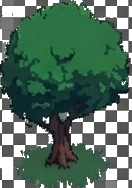
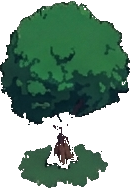
Fix stump transparency and double in-game stump size.
Remove dark checkerboard from stumps_log_01.png and add fix_sprite_transparency.py helper.

Changed region(s): [[0.0, 0.0, 1.0, 1.0], [0.0, 0.0, 0.3636, 0.3457], [0.4242, 0.0, 0.5758, 0.0266]]

diff --git a/tools/fix_sprite_transparency.py b/tools/fix_sprite_transparency.py
@@ -1,0 +1,50 @@
+"""Remove checkerboard / flat backgrounds from a sprite PNG (real alpha channel)."""
+from __future__ import annotations
+
+import sys
+from pathlib import Path
+
+from PIL import Image
+
+ROOT = Path(__file__).resolve().parents[1]
+
+
+def is_background(r: int, g: int, b: int) -> bool:
+    mx = max(r, g, b)
+    mn = min(r, g, b)
+    spread = mx - mn
+    # Neutral greys/whites (light or dark checkerboard).
+    if spread <= 22 and 68 <= mx <= 252:
+        return True
+    # Near-black fringe from export.
+    if mx < 68 and spread < 12:
+        return True
+    return False
+
+
+def clean_image(path: Path) -> int:
+    img = Image.open(path).convert("RGBA")
+    px = img.load()
+    cleared = 0
+    for y in range(img.height):
+        for x in range(img.width):
+            r, g, b, a = px[x, y]
+            if a == 0:
+                continue
+            if is_background(r, g, b):
+                px[x, y] = (0, 0, 0, 0)
+                cleared += 1
+    img.save(path)
+    return cleared
+
+
+def main() -> None:
+    targets = sys.argv[1:] or [str(ROOT / "assets" / "trees" / "stumps_log_01.png")]
+    for raw in targets:
+        path = Path(raw)
+        n = clean_image(path)
+        print(f"{path.name}: cleared {n} pixels")
+
+
+if __name__ == "__main__":
+    main()